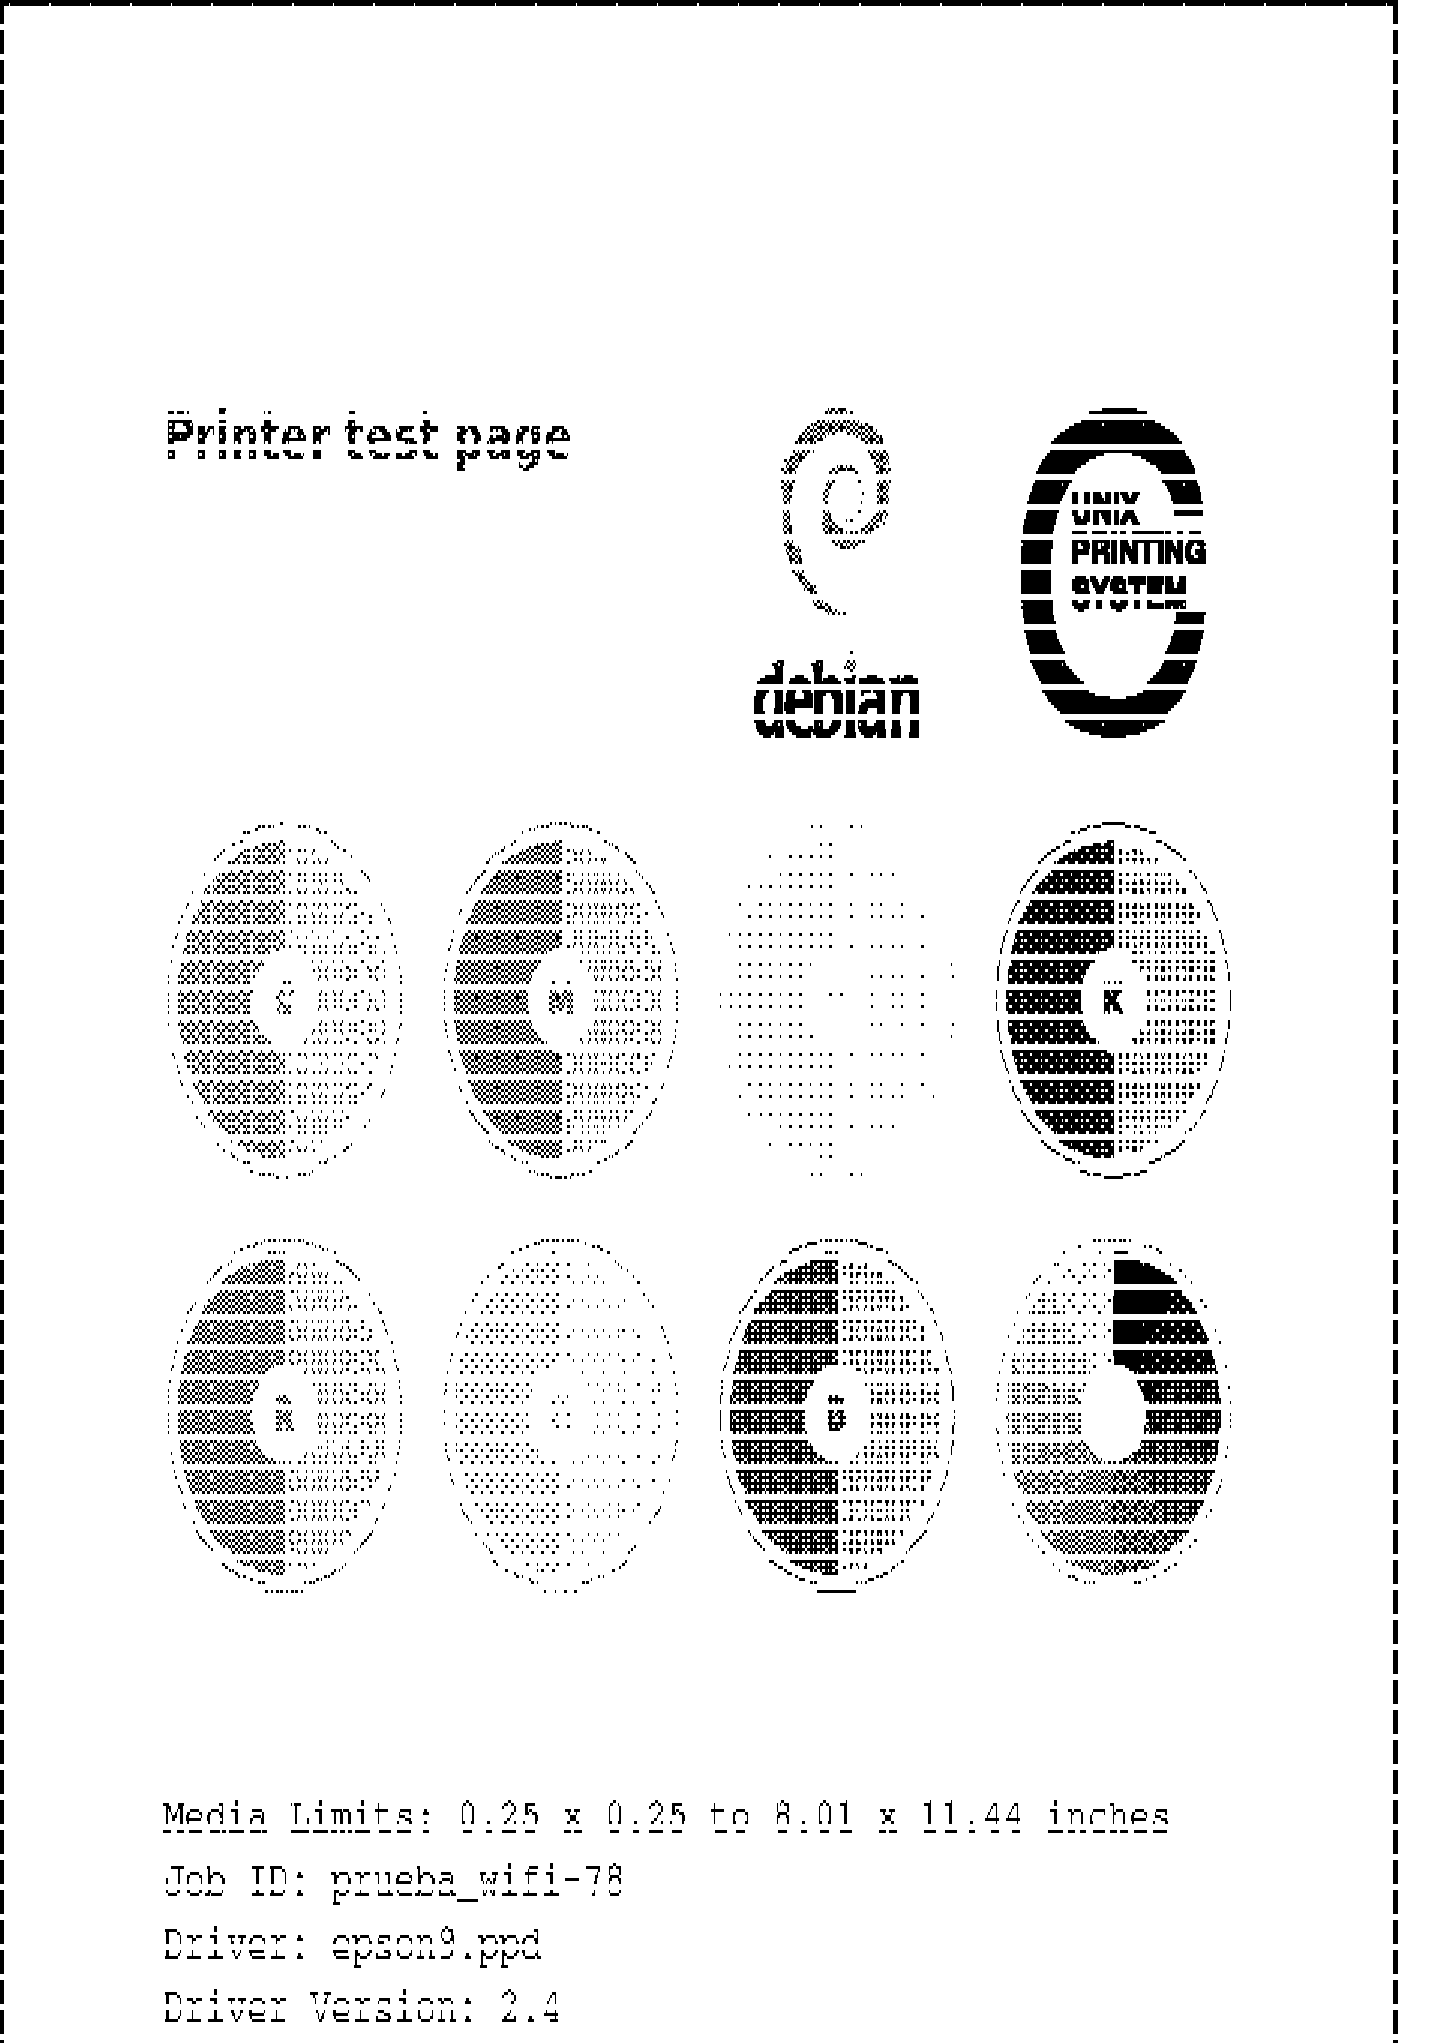
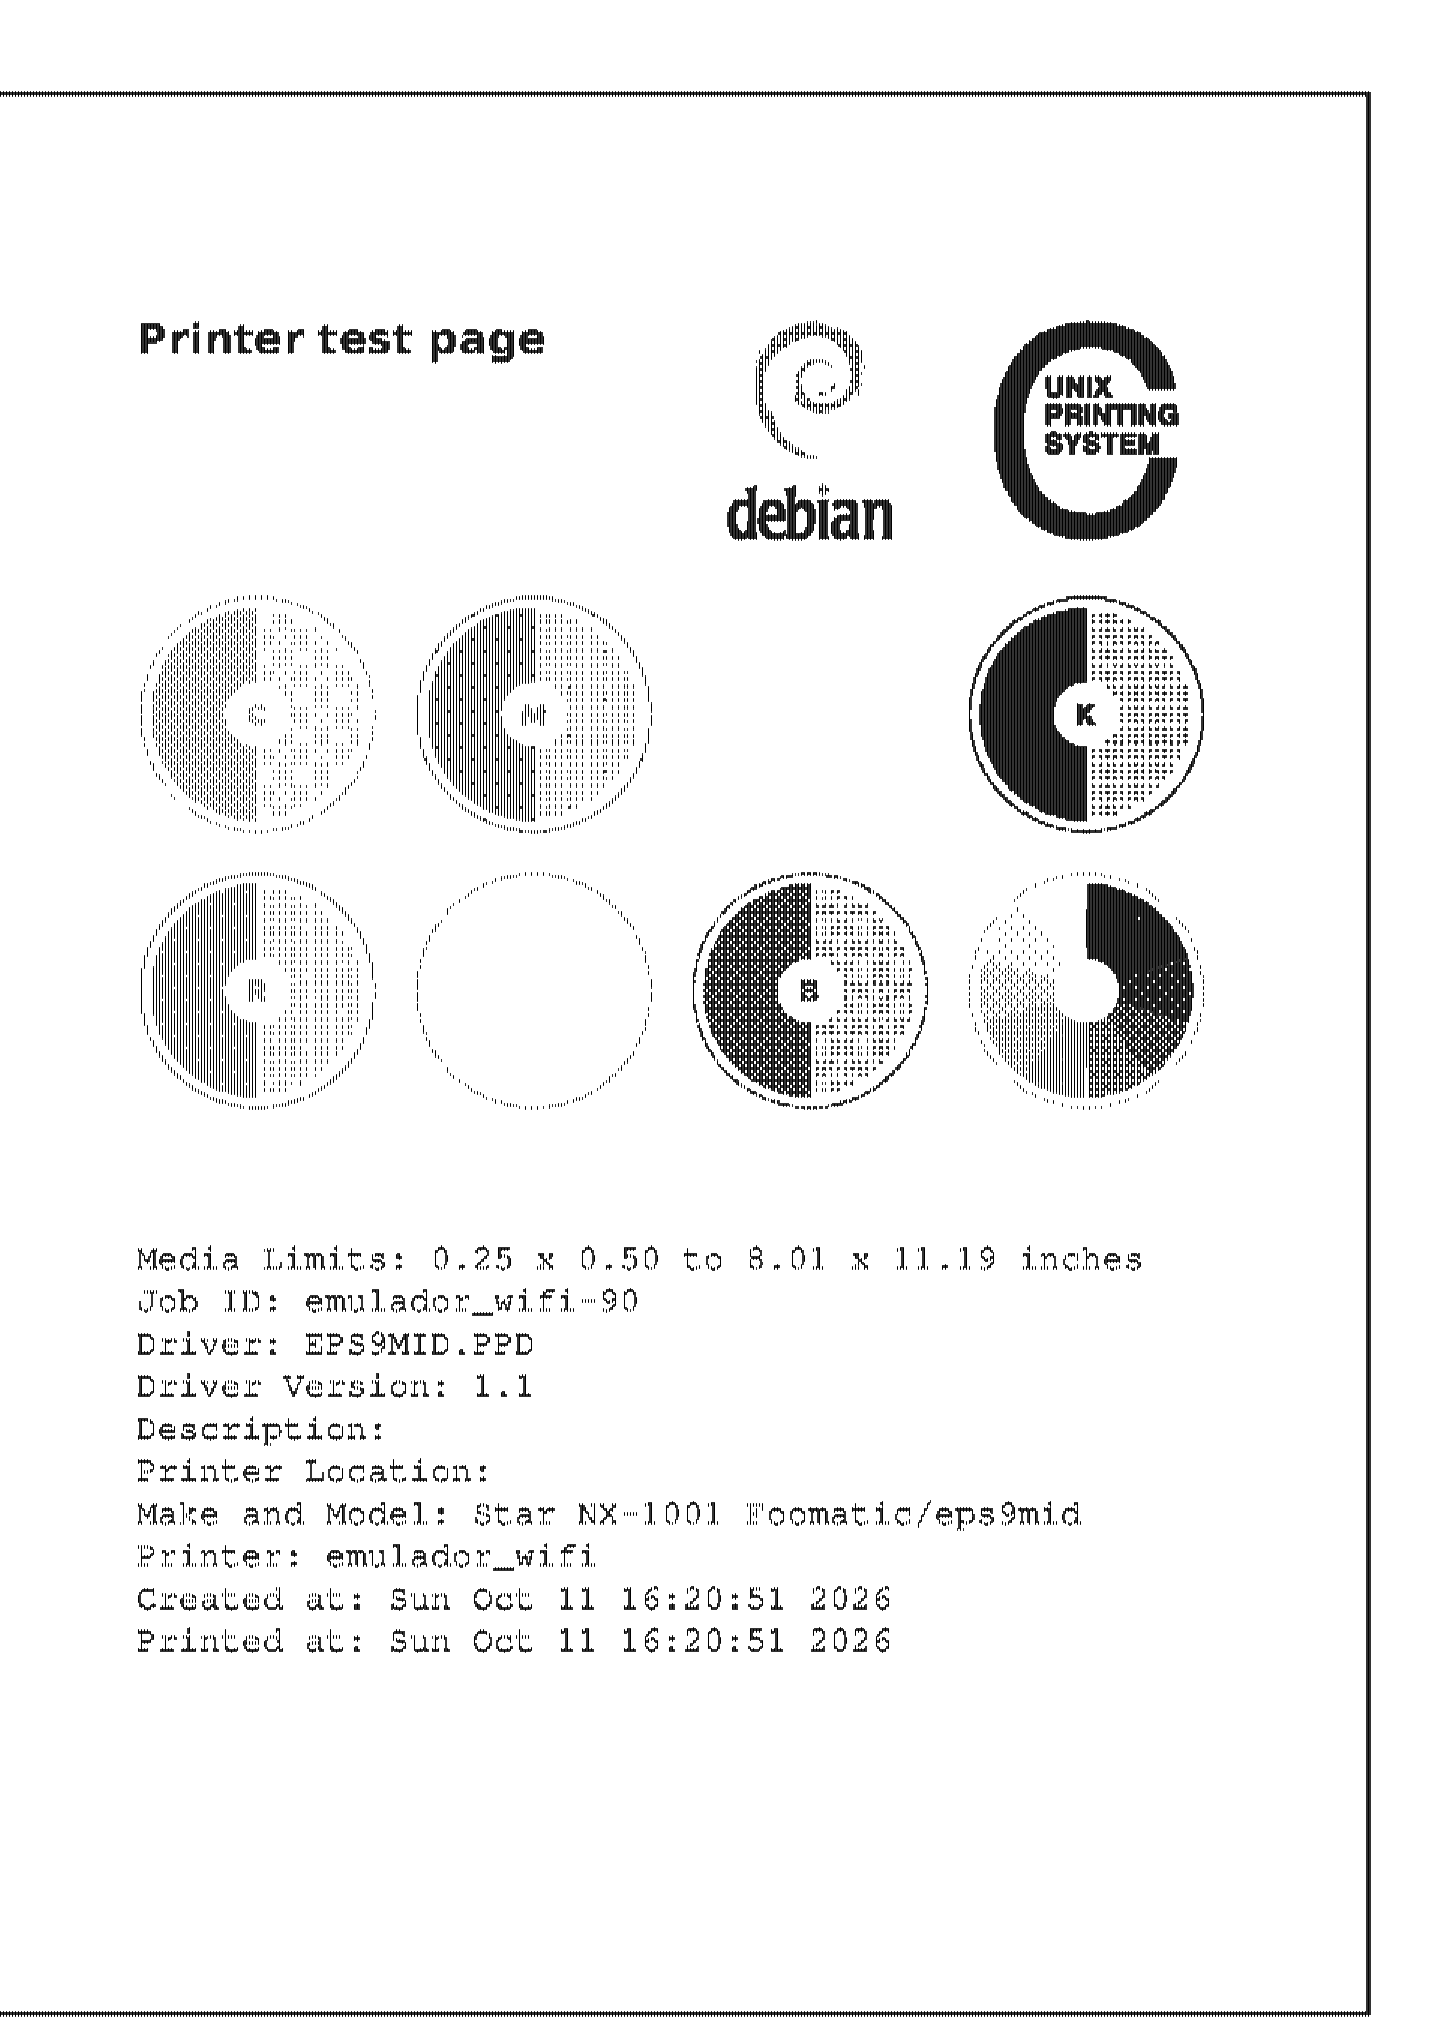
now with vertical ESC/P sequences

diff --git a/README.md b/README.md
@@ -58,5 +58,5 @@ Star LC 10 Colour basic demo from manual:
 Colour dump of QL's game loading screen, with sdump from miracle: 
 ![My image](sample2.png)
 
-Conected to a PC using Debian 13 (old, not actual funcionality):
+Conected to a PC using Debian 13 (need AUTO_CR_ON_LF = false):
 ![My image](sample3.png)
